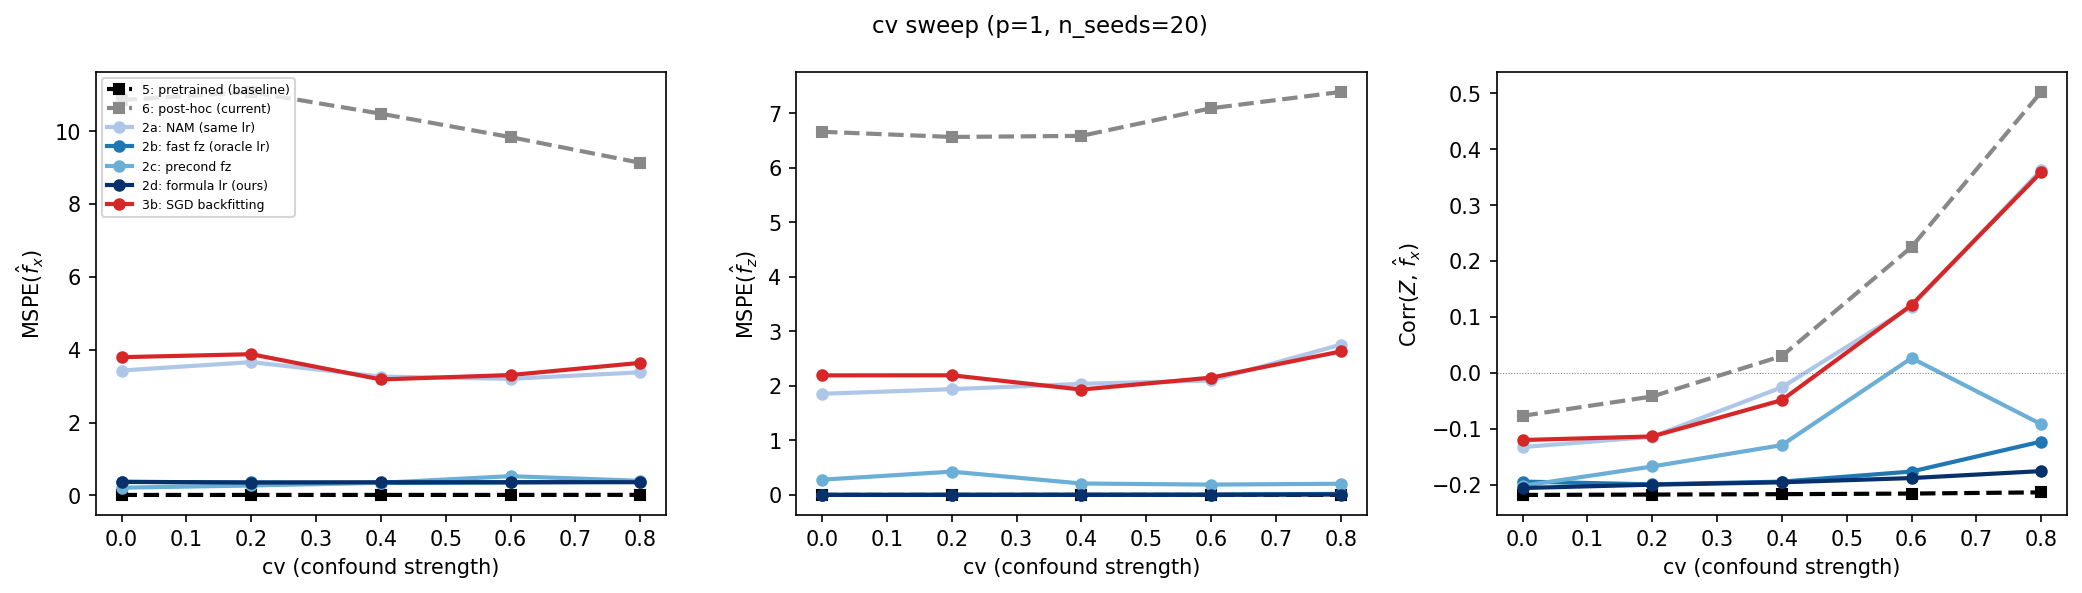
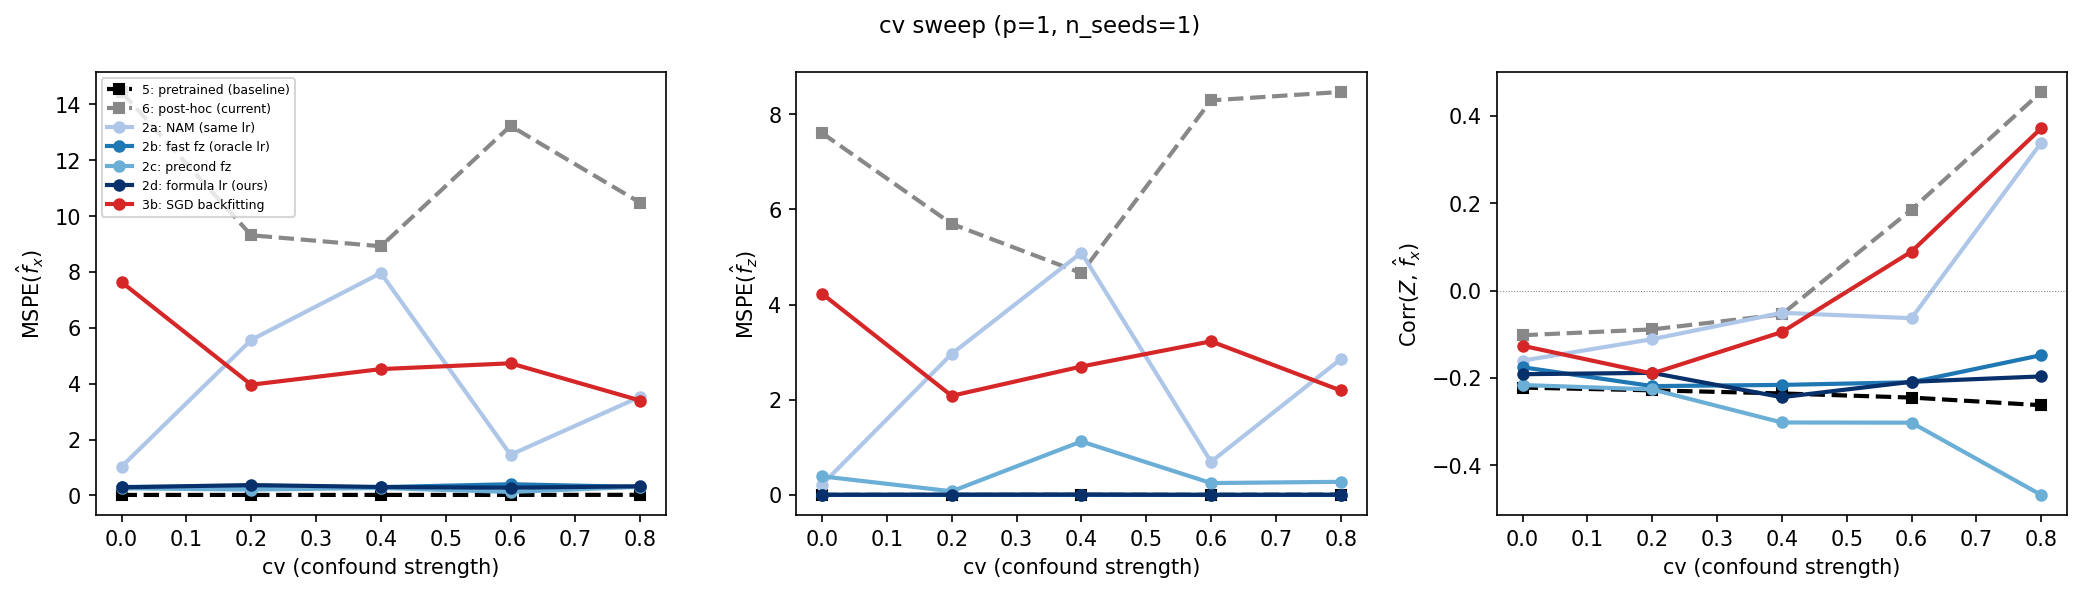
feat: add concurvity diagnostic and fz-first attribution convention
- concurvity(H, Z): mgcv-style measure of feature space overlap
- Printed per cv in experiment output
- Formula: tr(P_Z H H' P_Z) / tr(H H') = variance-weighted avg R²(h_j ~ Z)

diff --git a/experiments/endogeneity/endogeneity_test.py b/experiments/endogeneity/endogeneity_test.py
@@ -103,6 +103,29 @@ def predict_centered(model, X_test, Z_test):
     return fx_hat.numpy(), fz_hat.numpy()
 
 
+def concurvity(H, Z):
+    """Concurvity of fx w.r.t. fz, following mgcv::concurvity(, type="worst").
+
+    Measures the fraction of H's column space variance explainable by Z.
+    concurvity = tr(P_Z H H' P_Z) / tr(H H')
+              = Σ_j ||P_Z h_j||² / Σ_j ||h_j||²
+              = variance-weighted average R²(h_j ~ Z).
+
+    Args:
+        H: (N, d) backbone features (centered).
+        Z: (N, p) covariates (centered).
+
+    Returns:
+        float in [0, 1]. 0 = no overlap, 1 = H fully representable by Z.
+    """
+    # P_Z H = Z (Z'Z)^{-1} Z' H
+    ZtZ_inv = torch.linalg.inv(Z.T @ Z)
+    P_Z_H = Z @ ZtZ_inv @ Z.T @ H                  # (N, d)
+    num = (P_Z_H ** 2).sum()                         # tr(P_Z H H' P_Z)  = ||P_Z H||_F^2
+    den = (H ** 2).sum()                             # tr(H H')           = ||H||_F^2
+    return float(num / den)
+
+
 def bias_var_decomposition(preds, targets):
     """Bias²/Var decomposition following cocodeel simulation_images/utils.py.
 
@@ -432,6 +455,13 @@ def run_seed(seed, cv_values, nc, N_train=400, N_test=200):
         fz_target = (fz_te - fz_te.mean()).squeeze().numpy()
         z_test = Z_te[:, 0].numpy()
 
+        # Concurvity diagnostic: compute on training data (property of the DGP, not the model).
+        # Use a simple linear backbone to extract raw features for the concurvity measure.
+        H_tr = X_tr  # for raw features; for trained backbone, would need model.backbone(X_tr)
+        Z_tr_c = Z_tr - Z_tr.mean(dim=0, keepdim=True)
+        H_tr_c = H_tr - H_tr.mean(dim=0, keepdim=True)
+        cc = concurvity(H_tr_c, Z_tr_c)
+
         for name, train_fn in APPROACHES.items():
             model = train_fn(X_tr, Z_tr, y_tr, nc)
             fx_hat, fz_hat = predict_centered(model, X_te, Z_te)
@@ -439,6 +469,7 @@ def run_seed(seed, cv_values, nc, N_train=400, N_test=200):
             rows.append({
                 'seed': seed, 'cv': cv, 'approach': name,
                 'fx_hat': fx_hat, 'fz_hat': fz_hat,
+                'concurvity': cc,
                 'fx_target': fx_target, 'fz_target': fz_target,
                 'corr_z_fx': corr_z,
             })
@@ -508,14 +539,19 @@ if __name__ == '__main__':
     print("-" * 80)
 
     for cv in cv_values:
+        # Print concurvity (data property, same for all approaches).
+        cc_vals = [r['concurvity'] for r in all_results
+                   if r['cv'] == cv and r['approach'] == approach_names[0]]
+        cc_mean = np.mean(cc_vals)
+        print(f"  cv={cv:.1f}  concurvity(fx|fz)={cc_mean:.4f}", flush=True)
+
         for name in approach_names:
             subset = [r for r in all_results if r['cv'] == cv and r['approach'] == name]
             n_seeds = len(subset)
 
-            # Stack predictions: (n_test, n_seeds).
             fx_preds = np.stack([r['fx_hat'] for r in subset], axis=1)
             fz_preds = np.stack([r['fz_hat'] for r in subset], axis=1)
-            fx_target = subset[0]['fx_target']  # same across seeds (fixed test set)
+            fx_target = subset[0]['fx_target']
             fz_target = subset[0]['fz_target']
 
             dec_fx = bias_var_decomposition(fx_preds, fx_target)
@@ -530,11 +566,11 @@ if __name__ == '__main__':
             results[name]['corr_z_fx'].append(mean_corr)
 
             if n_seeds > 1:
-                print(f"{name:>15s} {cv:4.1f}  {dec_fx['bias2']:10.4f} {dec_fx['var']:10.4f}  "
+                print(f"    {name:>15s}  {dec_fx['bias2']:10.4f} {dec_fx['var']:10.4f}  "
                       f"{dec_fz['bias2']:10.4f} {dec_fz['var']:10.4f}  "
                       f"{mean_corr:+7.4f}±{np.std(corr_z_vals):.4f}", flush=True)
             else:
-                print(f"{name:>15s} {cv:4.1f}  {dec_fx['bias2']:10.4f} {dec_fx['var']:10.4f}  "
+                print(f"    {name:>15s}  {dec_fx['bias2']:10.4f} {dec_fx['var']:10.4f}  "
                       f"{dec_fz['bias2']:10.4f} {dec_fz['var']:10.4f}  "
                       f"{mean_corr:+10.4f}", flush=True)
         print()
